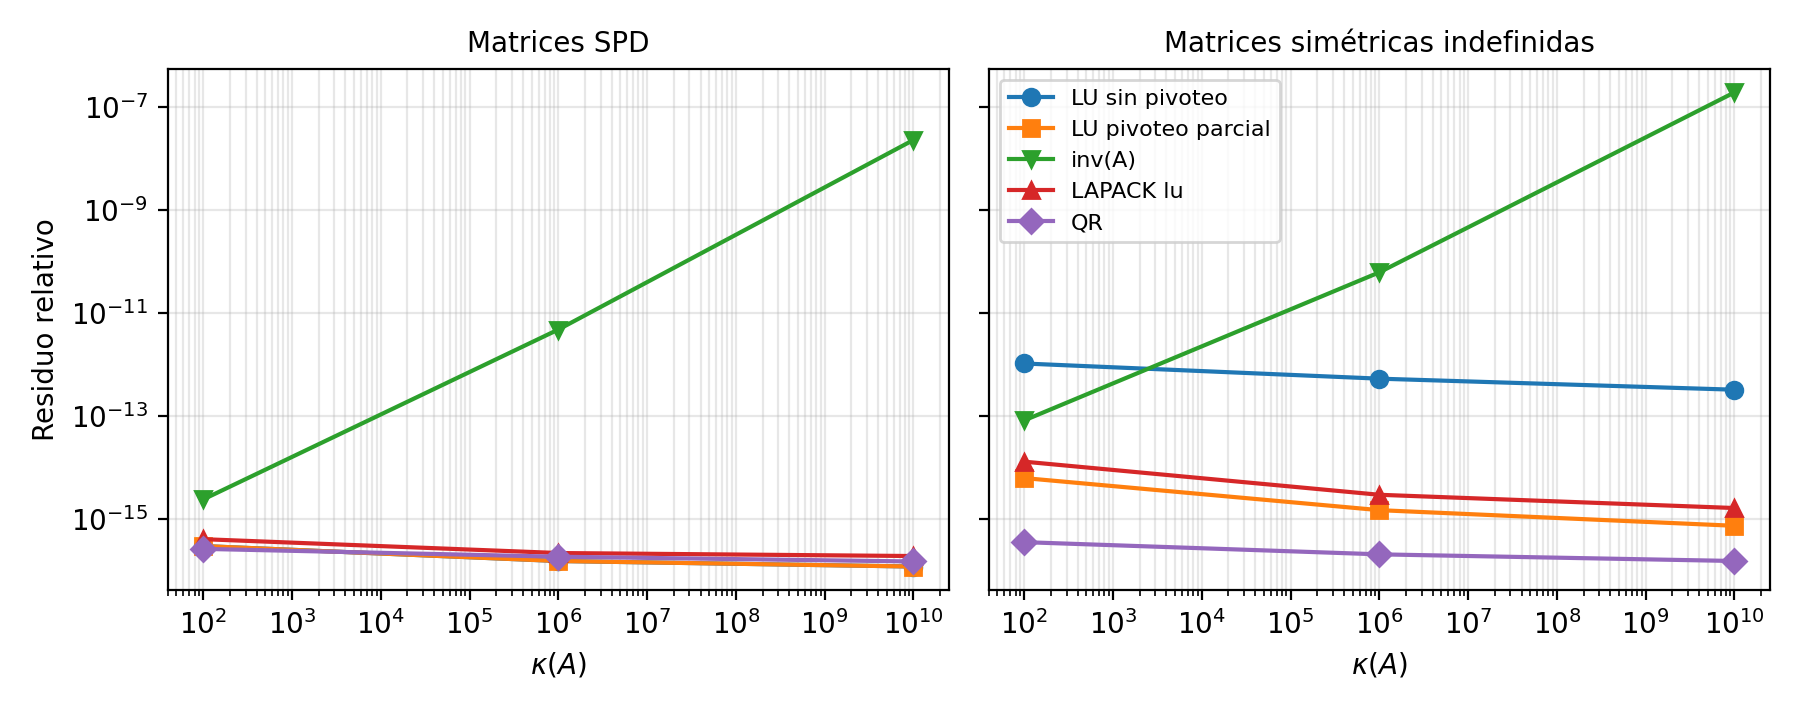
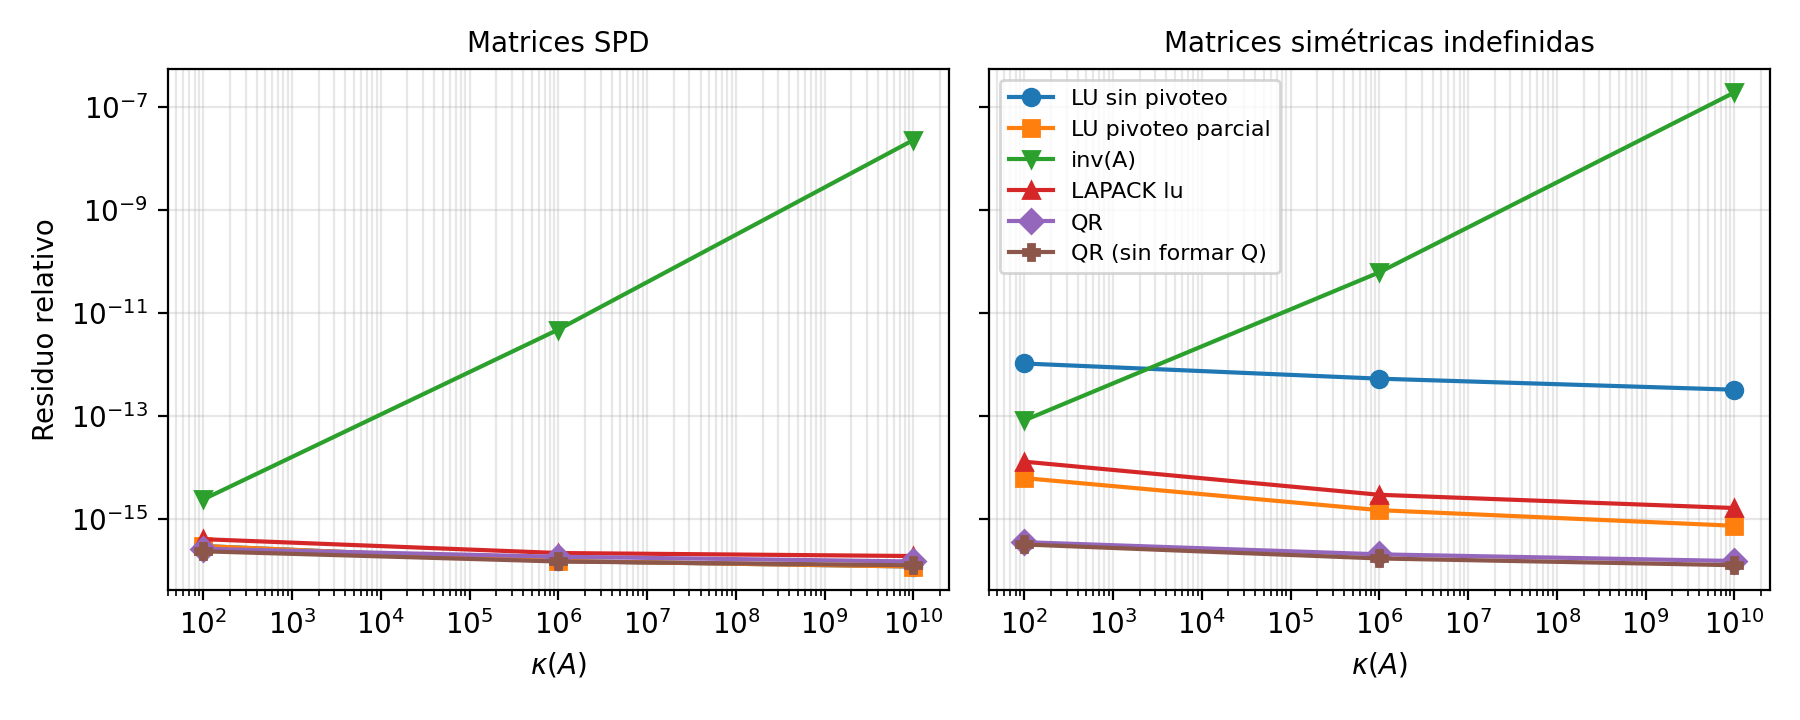
Ejercicio 1: nueva corrida y figuras con kappa 1e2

diff --git a/figs_ej1.py b/figs_ej1.py
@@ -5,8 +5,8 @@ import matplotlib.pyplot as plt
 
 d = pd.read_csv("ej1_resultados.csv")
 d["kappa"] = d["kappa"].astype(float)
-metodos = ["LU sin pivoteo", "LU pivoteo parcial", "inv(A)", "LAPACK lu", "QR"]
-marc = dict(zip(metodos, "osv^D"))
+metodos = ["LU sin pivoteo", "LU pivoteo parcial", "inv(A)", "LAPACK lu", "QR", "QR (sin formar Q)"]
+marc = dict(zip(metodos, "osv^DP"))
 tipos = {"spd": "Matrices SPD", "indef": "Matrices simétricas indefinidas"}
 
 fig, ax = plt.subplots(1, 2, figsize=(9, 3.6), sharey=True)
@@ -37,7 +37,7 @@ fig.savefig("figs/residuo_vs_kappa.png", dpi=200)
 
 fig, a = plt.subplots(figsize=(5.2, 3.6))
 for m in metodos:
-    s = d[(d.tipo == "spd") & (d.kappa == 1e6) & (d.metodo == m)]
+    s = d[(d.tipo == "spd") & (d.kappa == 1e2) & (d.metodo == m)]
     a.loglog(s.n, s.t_fact, marker=marc[m], label=m)
 a.set_xlabel("n")
 a.set_ylabel("Tiempo de factorización (s)")
